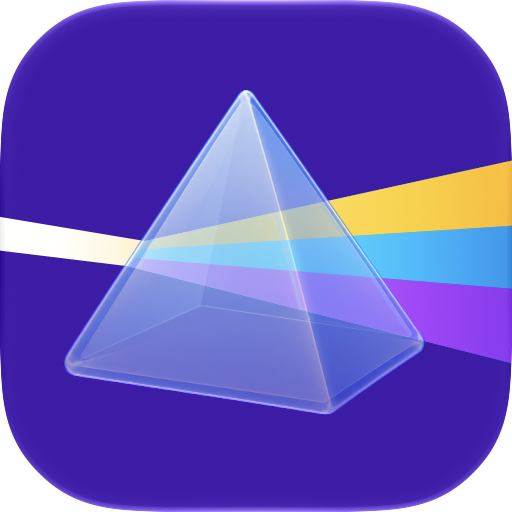
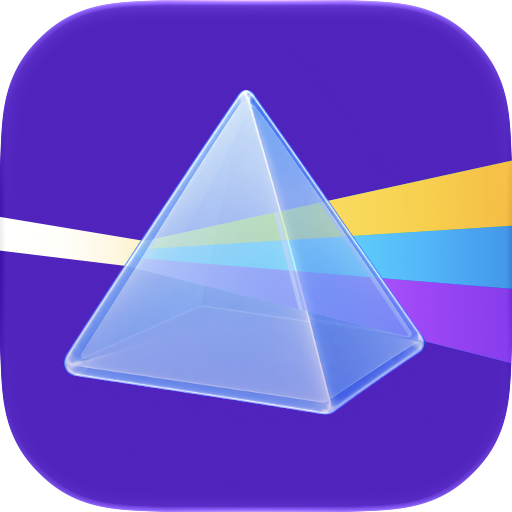
Improve prism contrast and adopt continuous shading

diff --git a/scripts/generate-icons.md b/scripts/generate-icons.md
@@ -2,16 +2,21 @@
 
 **The shipping icon is `Glimmer/AppIcon.icon`.** It is the selected aligned
 square-based glass pyramid on purple, with warmer incoming light and richer
-gold, cyan and violet gradients. Default and Dark both use the purple fill;
-the porcelain variant was retired.
+gold, cyan and violet gradients. The selected shading-only treatment keeps
+the spectrum continuous, with stronger colour through the faces. A brighter
+violet fill (Display P3 `#5024BD`) and lighter glass improve separation from
+the background. Default and Dark both use this purple fill; the porcelain
+variant was retired.
 
 The Composer document has four groups: restrained spectrum colour retention,
 the glass shell, rear faces and base seam, and the aligned light artwork.
 The shell is a raster asset with native inside specular lighting and
-translucency. The beam boundaries, gradients, rear facets and base seam are
-editable SVG. Material blur and screen-space refraction are disabled to keep
-the selected ray geometry crisp. The colour-retention overlay is inset from
-the bevels so it preserves their highlights.
+translucency (0.40, with the shell layer at full opacity). The beam boundaries,
+gradients, rear facets and base seam are editable SVG. Material blur and
+screen-space refraction are disabled to keep
+the selected ray geometry crisp. The colour-retention overlay uses restrained
+transmission gradients across the faces and is inset from the bevels so it
+preserves their highlights. The rays have no facet offsets or bends.
 
 Xcode compiles this document into appearance-aware icon stacks using
 `ASSETCATALOG_COMPILER_APPICON_NAME = AppIcon`. No flattened replacement icon
